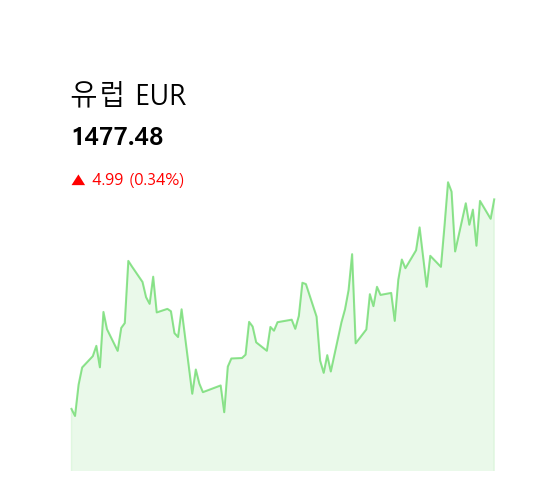
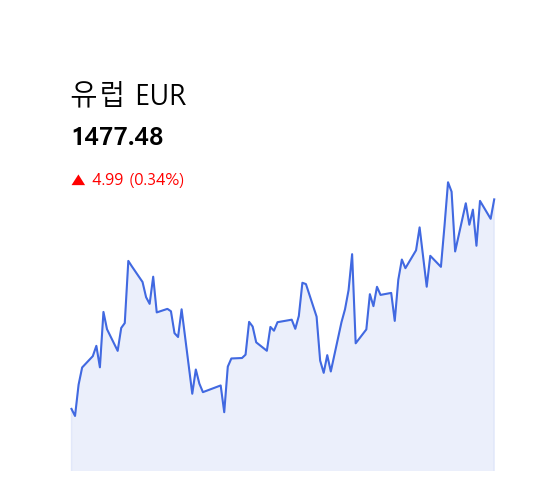
Update ER-graph Color

diff --git a/final_pjt_back/exchangerate/views.py b/final_pjt_back/exchangerate/views.py
@@ -121,8 +121,8 @@ def ER_graph(request):
         dfwon=dfwon.astype({'DATA_VALUE':'float'})
 
         plt.figure(figsize=(6, 6))
-        plt.plot(dfwon['datetime'], dfwon['DATA_VALUE'], color='limegreen', alpha=0.5)
-        plt.fill_between(dfwon['datetime'], dfwon['DATA_VALUE'], color='limegreen', alpha=0.1)
+        plt.plot(dfwon['datetime'], dfwon['DATA_VALUE'], color='royalblue', alpha=1)
+        plt.fill_between(dfwon['datetime'], dfwon['DATA_VALUE'], color='royalblue', alpha=0.1)
         plt.ylim(min(dfwon['DATA_VALUE'])*0.99, max(dfwon['DATA_VALUE'])*1.03)
         plt.xticks(dfwon['datetime'][::len(dfwon)//3])
 
